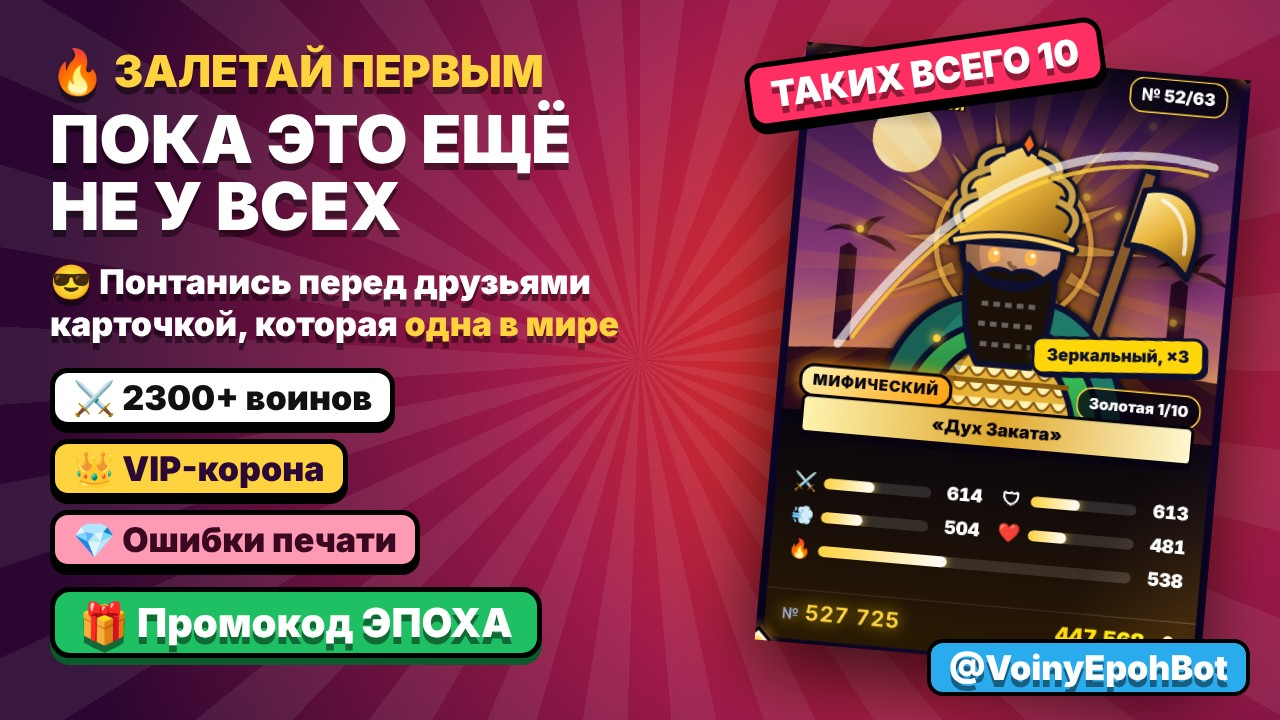
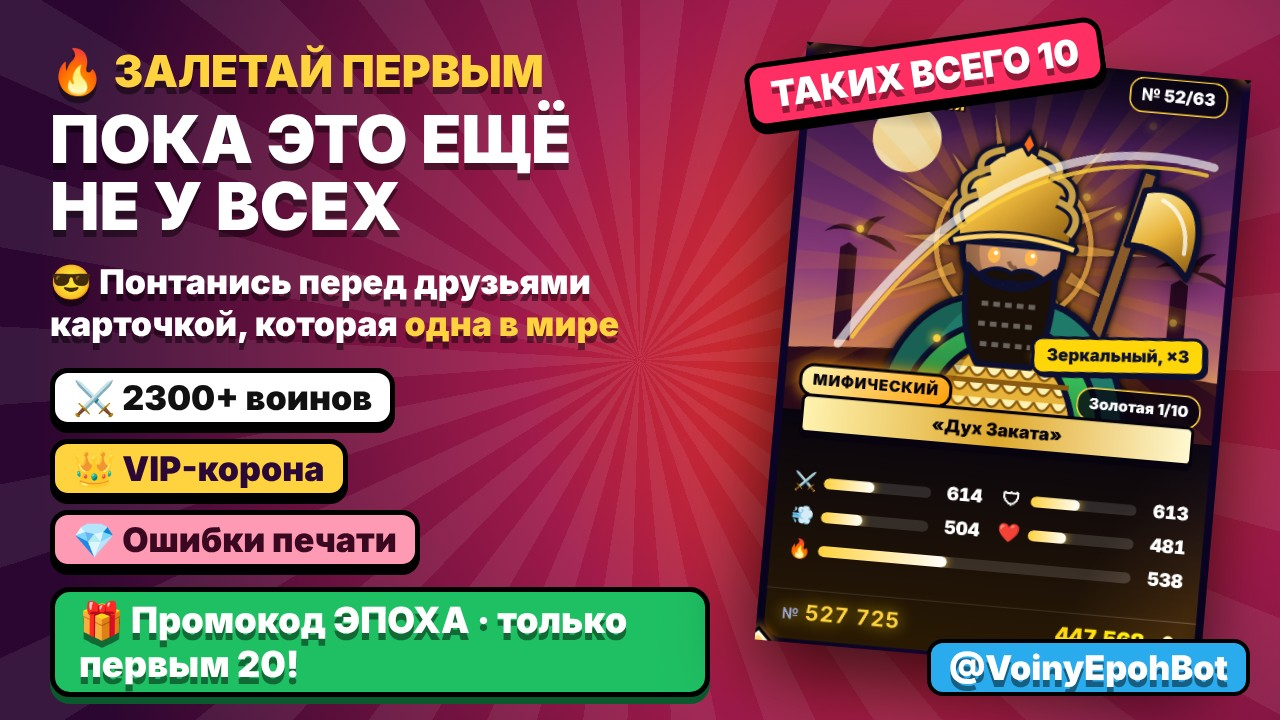
ЭПОХА: для всех, 24 часа (до 13.11 22:00)
Claude-Session: https://claude.ai/code/session_01WBNLLAZ4HxPKvodtiyTWHg

Changed region(s): [[0.0312, 0.7944, 0.5625, 0.9778]]

diff --git a/server/server.js b/server/server.js
@@ -2652,8 +2652,8 @@ const P250={id:"p250_1011",at:Date.UTC(2026,10,10,14,15),until:Date.UTC(2026,10,
 const P150={id:"p150_1111",at:Date.UTC(2026,10,11,13,30),until:Date.UTC(2026,10,11,20,59),on:true,photo:"assets/post-p150.jpg",btn:"⭐ Пополнить баланс",link:"?shop=flex",code:"ПОДАРОК150",sp:30,
  dm:"⭐ Акция только сегодня!\n\nПополни баланс от 150 ⭐ — и получи В ПОДАРОК:\n⭐ +150 звёзд на баланс\n🎴 +30 прокруток карточек\n\n🎟 Промокод: ПОДАРОК150\n1) Ещё → Промокод → ПОДАРОК150\n2) Пополни баланс от 150 ⭐\n3) Подарки придут сразу\n\n⏳ До 23:59 по Минску."};
 /* 🎥 промокоды стримеров: ЖЕНЯ — 5000 💰 + 30 прокруток + 20 ⭐; донаты активировавших отслеживаются (уведомление админу + promo_track) */
-const TRACK=["VISION","ЖЕНЯ","ЭПОХА"],TRK_MX={"ЭПОХА":20};/* ЭПОХА — только первым 20 */let trkOk=0;
-async function trackSeed(env){if(trkOk)return;trkOk=1;for(const c of TRACK)await env.DB.prepare("INSERT OR IGNORE INTO promo(code,sp,cash,mx,until,created,off,x2,st) VALUES(?,30,5000,?,0,?,0,0,20)").bind(c,TRK_MX[c]||0,Date.now()).run();for(const c in TRK_MX)await env.DB.prepare("UPDATE promo SET mx=? WHERE code=?").bind(TRK_MX[c],c).run()}
+const TRACK=["VISION","ЖЕНЯ","ЭПОХА"],TRK_MX={"ЭПОХА":0},TRK_UNTIL={"ЭПОХА":Date.UTC(2026,10,13,19,0)};/* ЭПОХА — для всех, 24 часа: до 13.11 22:00 Минск */let trkOk=0;
+async function trackSeed(env){if(trkOk)return;trkOk=1;for(const c of TRACK)await env.DB.prepare("INSERT OR IGNORE INTO promo(code,sp,cash,mx,until,created,off,x2,st) VALUES(?,30,5000,?,0,?,0,0,20)").bind(c,TRK_MX[c]||0,Date.now()).run();for(const c in TRK_MX)await env.DB.prepare("UPDATE promo SET mx=?,until=? WHERE code=?").bind(TRK_MX[c],TRK_UNTIL[c]||0,c).run()}
 async function trackSum(env,code){return (await env.DB.prepare("SELECT COUNT(DISTINCT u.uid) AS users,(SELECT COUNT(*) FROM promo_uses WHERE code=?) AS acts,COALESCE(SUM(p.stars),0) AS stars,COUNT(p.id) AS pays FROM promo_uses u LEFT JOIN payments p ON p.uid=u.uid AND p.status='done' AND p.paid>=u.t AND p.stars>0 WHERE u.code=?").bind(code,code).first())||{}}
 async function trackDon(env,P){if(!(P.stars>0))return;for(const code of TRACK){const u=await env.DB.prepare("SELECT t FROM promo_uses WHERE code=? AND uid=?").bind(code,P.uid).first();if(!u||P.created<u.t)continue;
   const S=await trackSum(env,code),nm=await env.DB.prepare("SELECT name FROM users WHERE id=?").bind(P.uid).first();

diff --git a/server/worker.js b/server/worker.js
@@ -3905,8 +3905,8 @@ const P250={id:"p250_1011",at:Date.UTC(2026,10,10,14,15),until:Date.UTC(2026,10,
 const P150={id:"p150_1111",at:Date.UTC(2026,10,11,13,30),until:Date.UTC(2026,10,11,20,59),on:true,photo:"assets/post-p150.jpg",btn:"⭐ Пополнить баланс",link:"?shop=flex",code:"ПОДАРОК150",sp:30,
  dm:"⭐ Акция только сегодня!\n\nПополни баланс от 150 ⭐ — и получи В ПОДАРОК:\n⭐ +150 звёзд на баланс\n🎴 +30 прокруток карточек\n\n🎟 Промокод: ПОДАРОК150\n1) Ещё → Промокод → ПОДАРОК150\n2) Пополни баланс от 150 ⭐\n3) Подарки придут сразу\n\n⏳ До 23:59 по Минску."};
 /* 🎥 промокоды стримеров: ЖЕНЯ — 5000 💰 + 30 прокруток + 20 ⭐; донаты активировавших отслеживаются (уведомление админу + promo_track) */
-const TRACK=["VISION","ЖЕНЯ","ЭПОХА"],TRK_MX={"ЭПОХА":20};/* ЭПОХА — только первым 20 */let trkOk=0;
-async function trackSeed(env){if(trkOk)return;trkOk=1;for(const c of TRACK)await env.DB.prepare("INSERT OR IGNORE INTO promo(code,sp,cash,mx,until,created,off,x2,st) VALUES(?,30,5000,?,0,?,0,0,20)").bind(c,TRK_MX[c]||0,Date.now()).run();for(const c in TRK_MX)await env.DB.prepare("UPDATE promo SET mx=? WHERE code=?").bind(TRK_MX[c],c).run()}
+const TRACK=["VISION","ЖЕНЯ","ЭПОХА"],TRK_MX={"ЭПОХА":0},TRK_UNTIL={"ЭПОХА":Date.UTC(2026,10,13,19,0)};/* ЭПОХА — для всех, 24 часа: до 13.11 22:00 Минск */let trkOk=0;
+async function trackSeed(env){if(trkOk)return;trkOk=1;for(const c of TRACK)await env.DB.prepare("INSERT OR IGNORE INTO promo(code,sp,cash,mx,until,created,off,x2,st) VALUES(?,30,5000,?,0,?,0,0,20)").bind(c,TRK_MX[c]||0,Date.now()).run();for(const c in TRK_MX)await env.DB.prepare("UPDATE promo SET mx=?,until=? WHERE code=?").bind(TRK_MX[c],TRK_UNTIL[c]||0,c).run()}
 async function trackSum(env,code){return (await env.DB.prepare("SELECT COUNT(DISTINCT u.uid) AS users,(SELECT COUNT(*) FROM promo_uses WHERE code=?) AS acts,COALESCE(SUM(p.stars),0) AS stars,COUNT(p.id) AS pays FROM promo_uses u LEFT JOIN payments p ON p.uid=u.uid AND p.status='done' AND p.paid>=u.t AND p.stars>0 WHERE u.code=?").bind(code,code).first())||{}}
 async function trackDon(env,P){if(!(P.stars>0))return;for(const code of TRACK){const u=await env.DB.prepare("SELECT t FROM promo_uses WHERE code=? AND uid=?").bind(code,P.uid).first();if(!u||P.created<u.t)continue;
   const S=await trackSum(env,code),nm=await env.DB.prepare("SELECT name FROM users WHERE id=?").bind(P.uid).first();
